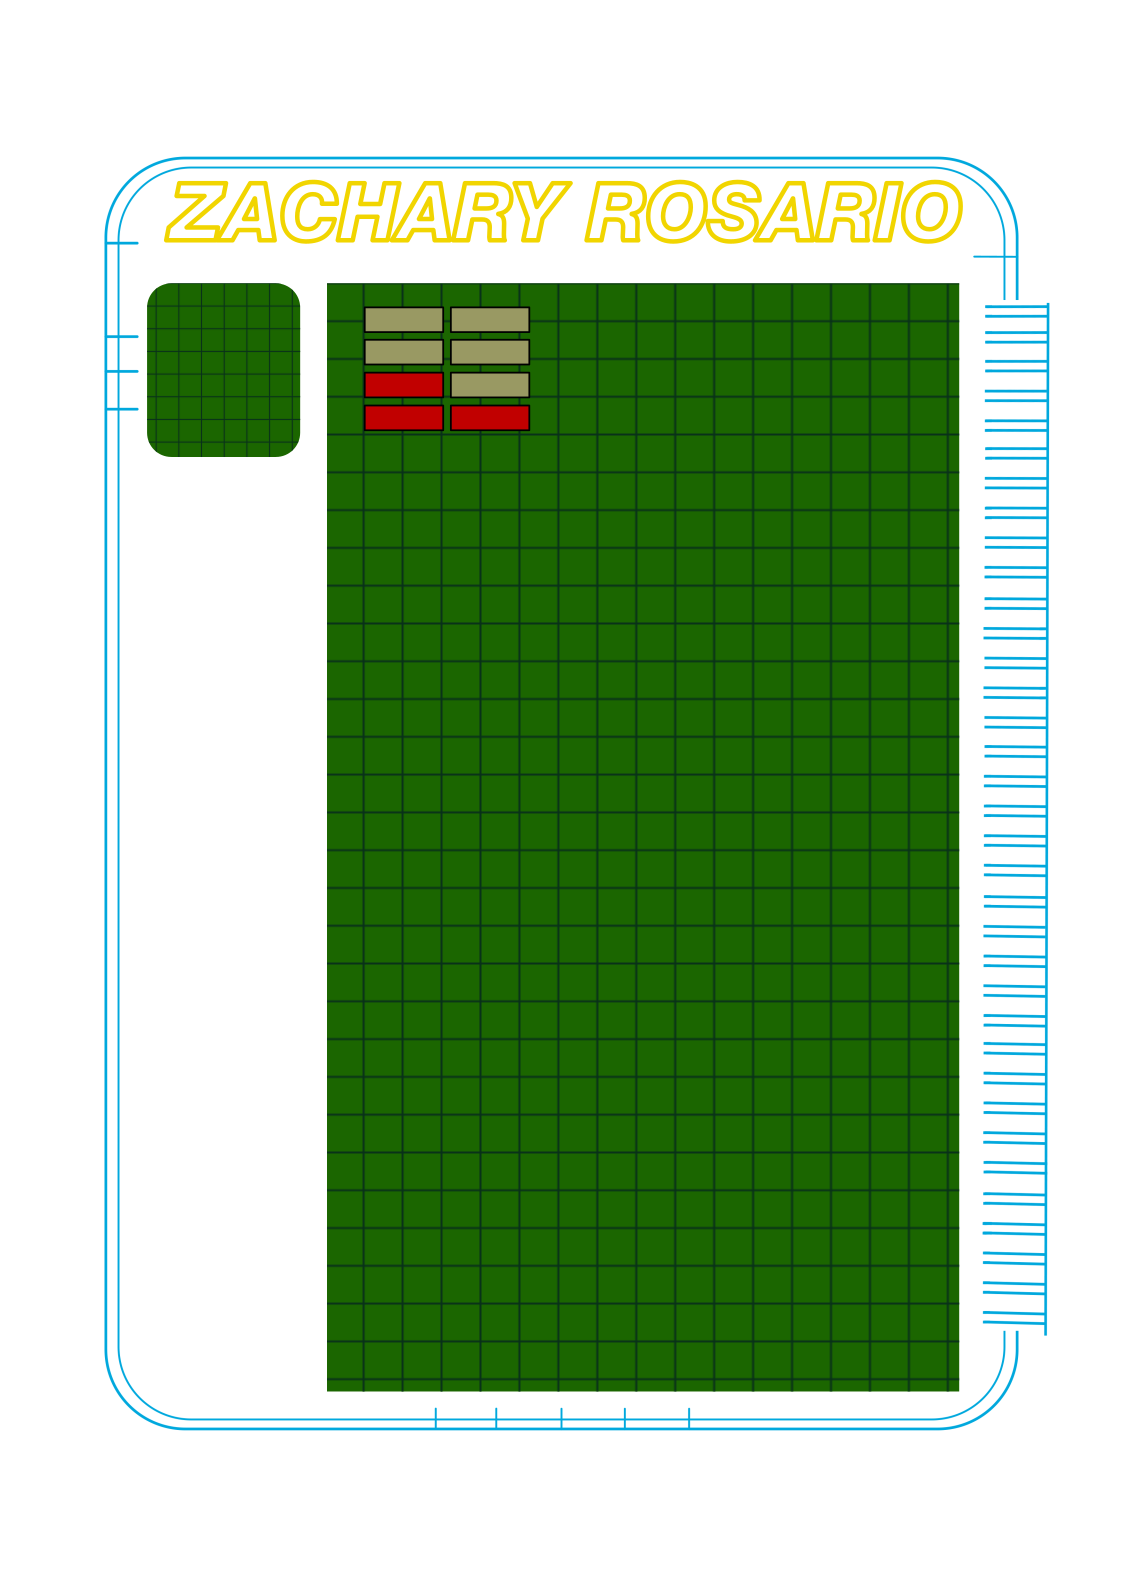
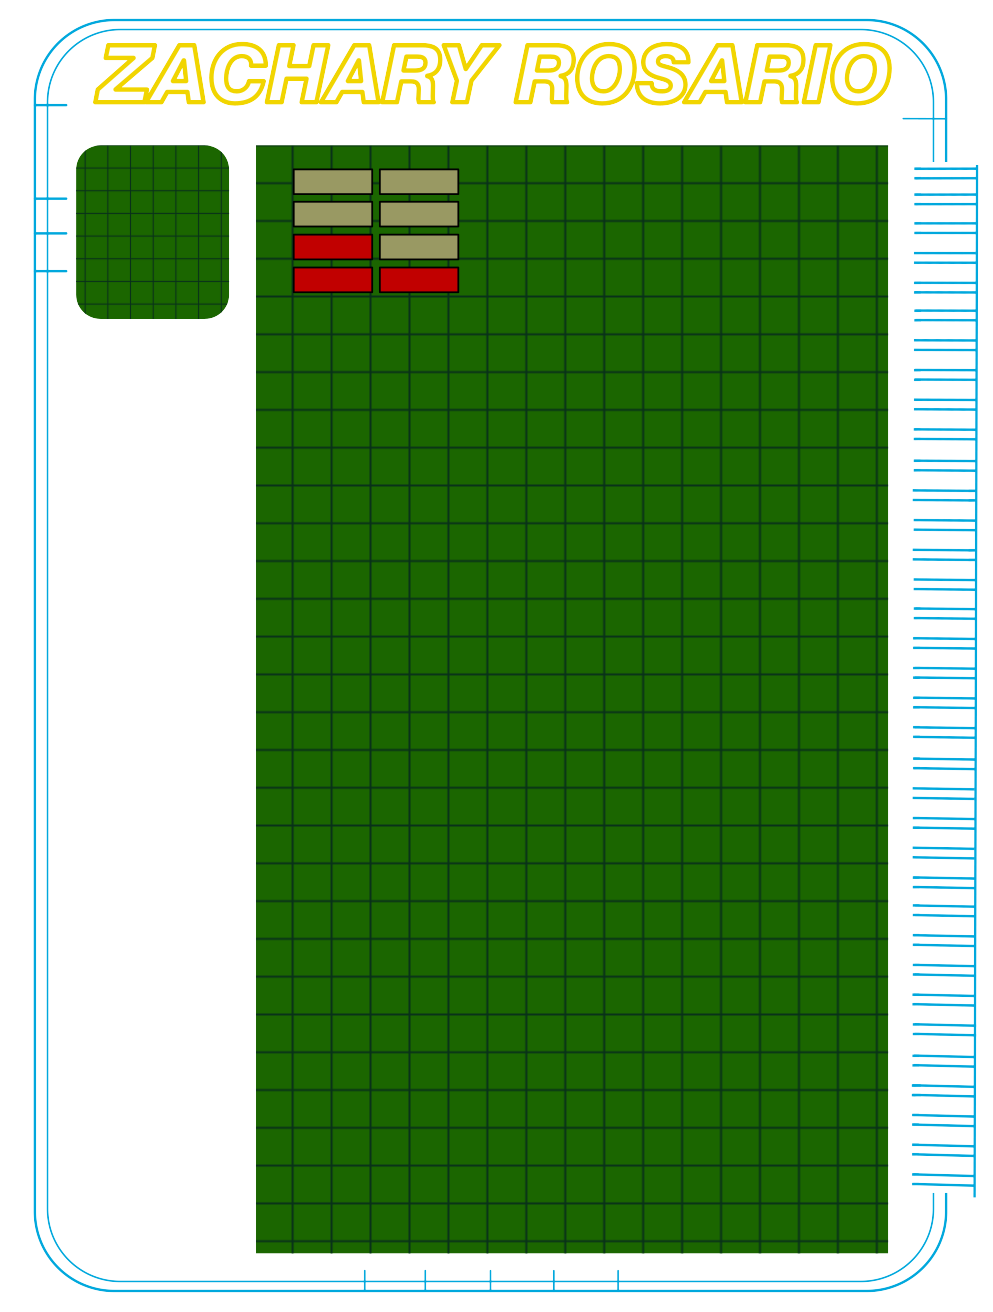
fixed all scaling issues whew

diff --git a/about-me.html b/about-me.html
@@ -15,67 +15,79 @@
 
         .container {
             width: 100%;
-            margin: -10vh auto 0 auto;
+            position: relative;
+            margin: 0 auto;
         }
 
         .background-container {
             position: relative;
-            width: 100%;
+            width: 953px;
+            height: 1284px;
+            margin: 0 auto;
             background-image: url('./public/site-other-bckg.png');
             background-size: contain;
             background-repeat: no-repeat;
             background-position: center;
-            min-height: 150vh;
         }
 
         .button-container {
             position: absolute;
-            top: 20%;        
-            left: 30.5%;       
+            top: 14.5%;        
+            left: 6.5%;       
             display: flex;
             flex-direction: column;
             align-items: center;
         }
 
         .button-container button {
-            font-size: 1vw;
+            font-size: 1.2rem;
             font-family: 'CustomFont', sans-serif;
-            border: 0.18em solid #fff;
+            border: 0.15rem solid #fff;
             border-radius: 1.5em;
             cursor: pointer;
             background-color: rgb(208, 4, 4);
             color: #fff;
-            width: 220%;
-            padding: 0.1em;
-            margin-bottom: 10%;
+            width: 8rem;
+            padding: 0.1rem;
+            margin-bottom: 4.5%;
         }
 
         .button-container button:hover {
             background-color: rgb(119, 0, 0);
         }
 
+        .invisible-home-link-container {
+            position: absolute;
+            top: 4%;
+            left: 9%;
+            width: 81%; 
+            height: 5%;   
+            z-index: 1;
+            display: flex;
+            flex-direction: column;
+            align-items: center;
+        }
+
         .invisible-home-link {
-            position: fixed;
-            left: 30%;
-            top: 5%;
-            width: 40vw;
-            height: 5vw;
-            background-color: transparent;
+            width: 100%;
+            height: 100%;
+            background-color: red;
             cursor: pointer;
-            z-index: 1000;
         }
     </style>
 </head>
 <body>
-    <a href="index.html" class="invisible-home-link" aria-label="Go to Home"></a>
-
     <div class="container">
         <div class="background-container">
+            <div class="invisible-home-link-container">
+                <a href="index.html" class="invisible-home-link"></a>
+            </div>
             <div class="button-container">
                 <button onclick="window.location.href='about-me.html'">About Me </button>
                 <button onclick="window.location.href='projects.html'">Projects</button>
                 <button onclick="window.location.href='resume.html'">Resume</button>
             </div>
+        </div>
     </div>
 </body>
 </html>

diff --git a/resume.html b/resume.html
@@ -15,39 +15,43 @@
 
         .container {
             width: 100%;
-            margin: -10vh auto 0 auto;
+            max-width: 993px;
+            margin: 0 auto 0 auto;
         }
 
         .background-container {
-            position: relative;
             width: 100%;
+            position: relative;
             background-image: url('./public/site-other-bckg.png');
             background-size: contain;
             background-repeat: no-repeat;
             background-position: center;
-            min-height: 150vh;
+            min-height: 120vh;
+            aspect-ratio: 3/4;
         }
 
         .button-container {
             position: absolute;
-            top: 20%;        
-            left: 30%;       
+            top: 15%;        
+            left: 32%; 
             display: flex;
             flex-direction: column;
             align-items: center;
         }
 
         .button-container button {
-            font-size: 1vw;
+            font-size: 1.5rem;
             font-family: 'CustomFont', sans-serif;
             border: 0.18em solid #fff;
             border-radius: 1.5em;
             cursor: pointer;
             background-color: rgb(208, 4, 4);
             color: #fff;
-            width: 220%;
+            width: 115px;
             padding: 0.1em;
-            margin-bottom: 10%;
+            margin-bottom: 5%;
+            /* transform: translate(-50%, -50%); */
+            /* transform: scale(2, 2) translate(-50%, -50%); */
         }
 
         .button-container button:hover {
@@ -57,9 +61,9 @@
         .invisible-home-link {
             position: fixed;
             left: 30%;
-            top: 5%;
+            top: 7%;
             width: 40vw;
-            height: 5vw;
+            height: 7vh;
             background-color: transparent;
             cursor: pointer;
             z-index: 1000;
@@ -72,11 +76,11 @@
     <div class="container">
         <div class="background-container">
             <div class="button-container">
-                <button onclick="window.location.href='about-me.html'">About Me </button>
+                <button onclick="window.location.href='about-me.html'">About Me</button>
                 <button onclick="window.location.href='projects.html'">Projects</button>
                 <button onclick="window.location.href='resume.html'">Resume</button>
             </div>
-
+        </div>
     </div>
 </body>
 </html>

diff --git a/index.html b/index.html
@@ -2,6 +2,8 @@
 <html>
 <head>
     <title>Zach Rosario - Student, Programmer, Archivist</title>
+    <meta name="viewport" content="width=device-width, initial-scale=1">
+
     <style>
         @font-face {
             font-family: 'CustomFont';
@@ -14,16 +16,18 @@
         }
 
         .container {
-            width: 90%;
-            max-width: 1920px;
+            width: 100%;
             margin: 0 auto;
+            position: relative;
             padding-top: 50px;
         }
 
         .background-container {
             position: relative;
-            width: 100%;
-            aspect-ratio: 16 / 9;
+            width: 1553px;
+            height: 866px;      
+            /* aspect-ratio: 16 / 9; */
+            margin: 0 auto; /* Center the container horizontally */
             background-image: url('./public/ForDumbStupidZach.png');
             background-size: cover;
             background-repeat: no-repeat;
@@ -33,23 +37,23 @@
         .button-container {
             position: absolute;
             top: 37%;        
-            left: 20%;       
+            left: 14.5%;       
             display: flex;
             flex-direction: column;
             align-items: center;
         }
 
         .button-container button {
-            font-size: 2vw;
+            font-size: 2.0rem;
             font-family: 'CustomFont', sans-serif;
-            border: 0.18em solid #fff;
+            border: 0.3rem solid #fff;
             border-radius: 1.5em;
             cursor: pointer;
             background-color: rgb(208, 4, 4);
             color: #fff;
-            width: 220%;
-            padding: 0.1em;
-            margin-bottom: 28%;
+            width: 15rem;
+            padding: 0.1rem;
+            margin-bottom: 21%;
         }
 
         .button-container button:hover {
@@ -62,7 +66,7 @@
           transition: transform 0.3s;
           position: absolute;
           right: 25.5%;
-          bottom: 51.5%;
+          bottom: 51.2%;
         }
 
         .github-logo:hover {
@@ -74,8 +78,8 @@
             height: 3%;
             transition: transform 0.3s;
             position: absolute;
-            right: 24.6%;
-            bottom: 47.5%;
+            right: 24.5%;
+            bottom: 47.3%;
         }
 
         .linkedin-logo:hover {
@@ -103,5 +107,6 @@
             </div>
         </div>
     </div>
+    <script src="index.js"></script>
 </body>
 </html>
